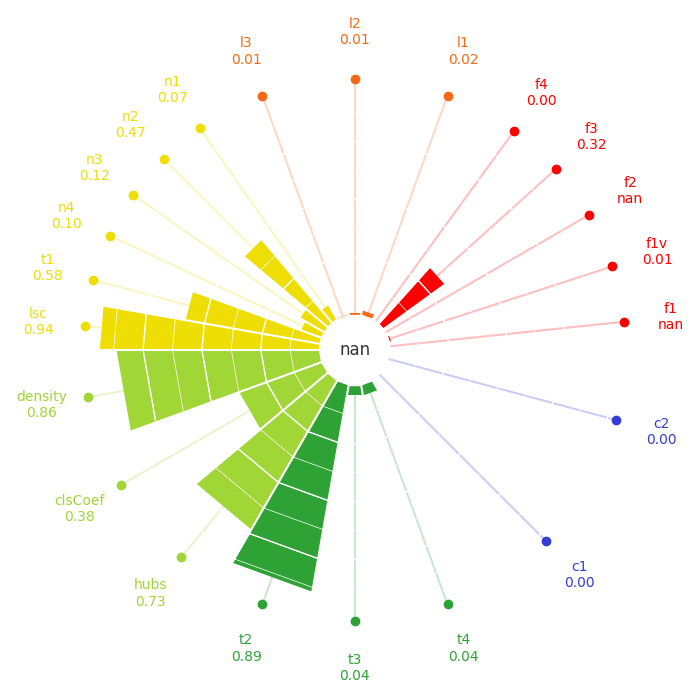
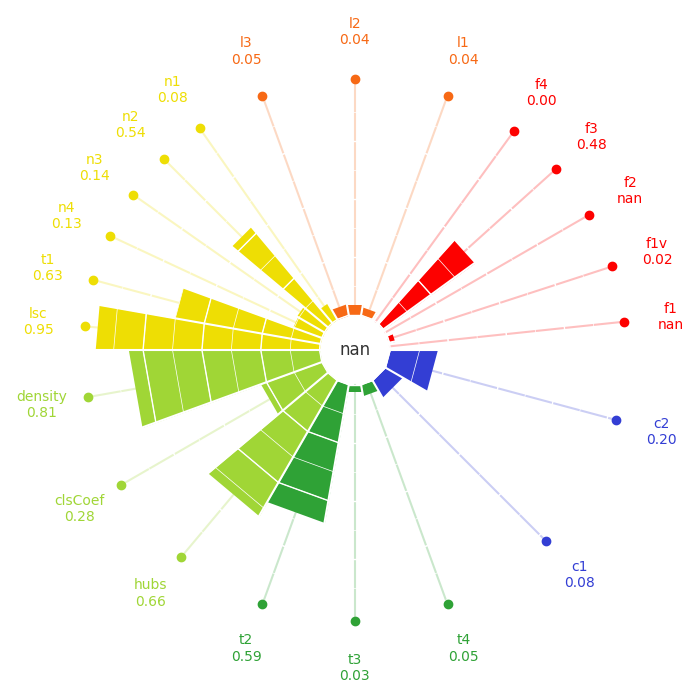
problexity test but still not working

diff --git a/problexity_test.py b/problexity_test.py
@@ -14,12 +14,12 @@ main_folder = 'results/Barbara_13_05_2022_AB_wavdec/'
 ###
 # filename = "features_WL_MAV.csv"
 # filename = "features_WL_ZC_MAV.csv"
-# filename = "features_WL_ZC_MAV_SSC.csv"
-# classes = [1,4,5]
+filename = "features_WL_ZC_MAV_SSC.csv"
+classes = [1,4,5]
 ###
 
-filename = "features_ZC_MAV_SSC.csv"
-classes = [1,3,4]
+# filename = "features_ZC_MAV_SSC.csv"
+# classes = [1,3,4]
 number_of_classes = len(classes)
 
 fig = plt.figure(figsize=(7,7))
